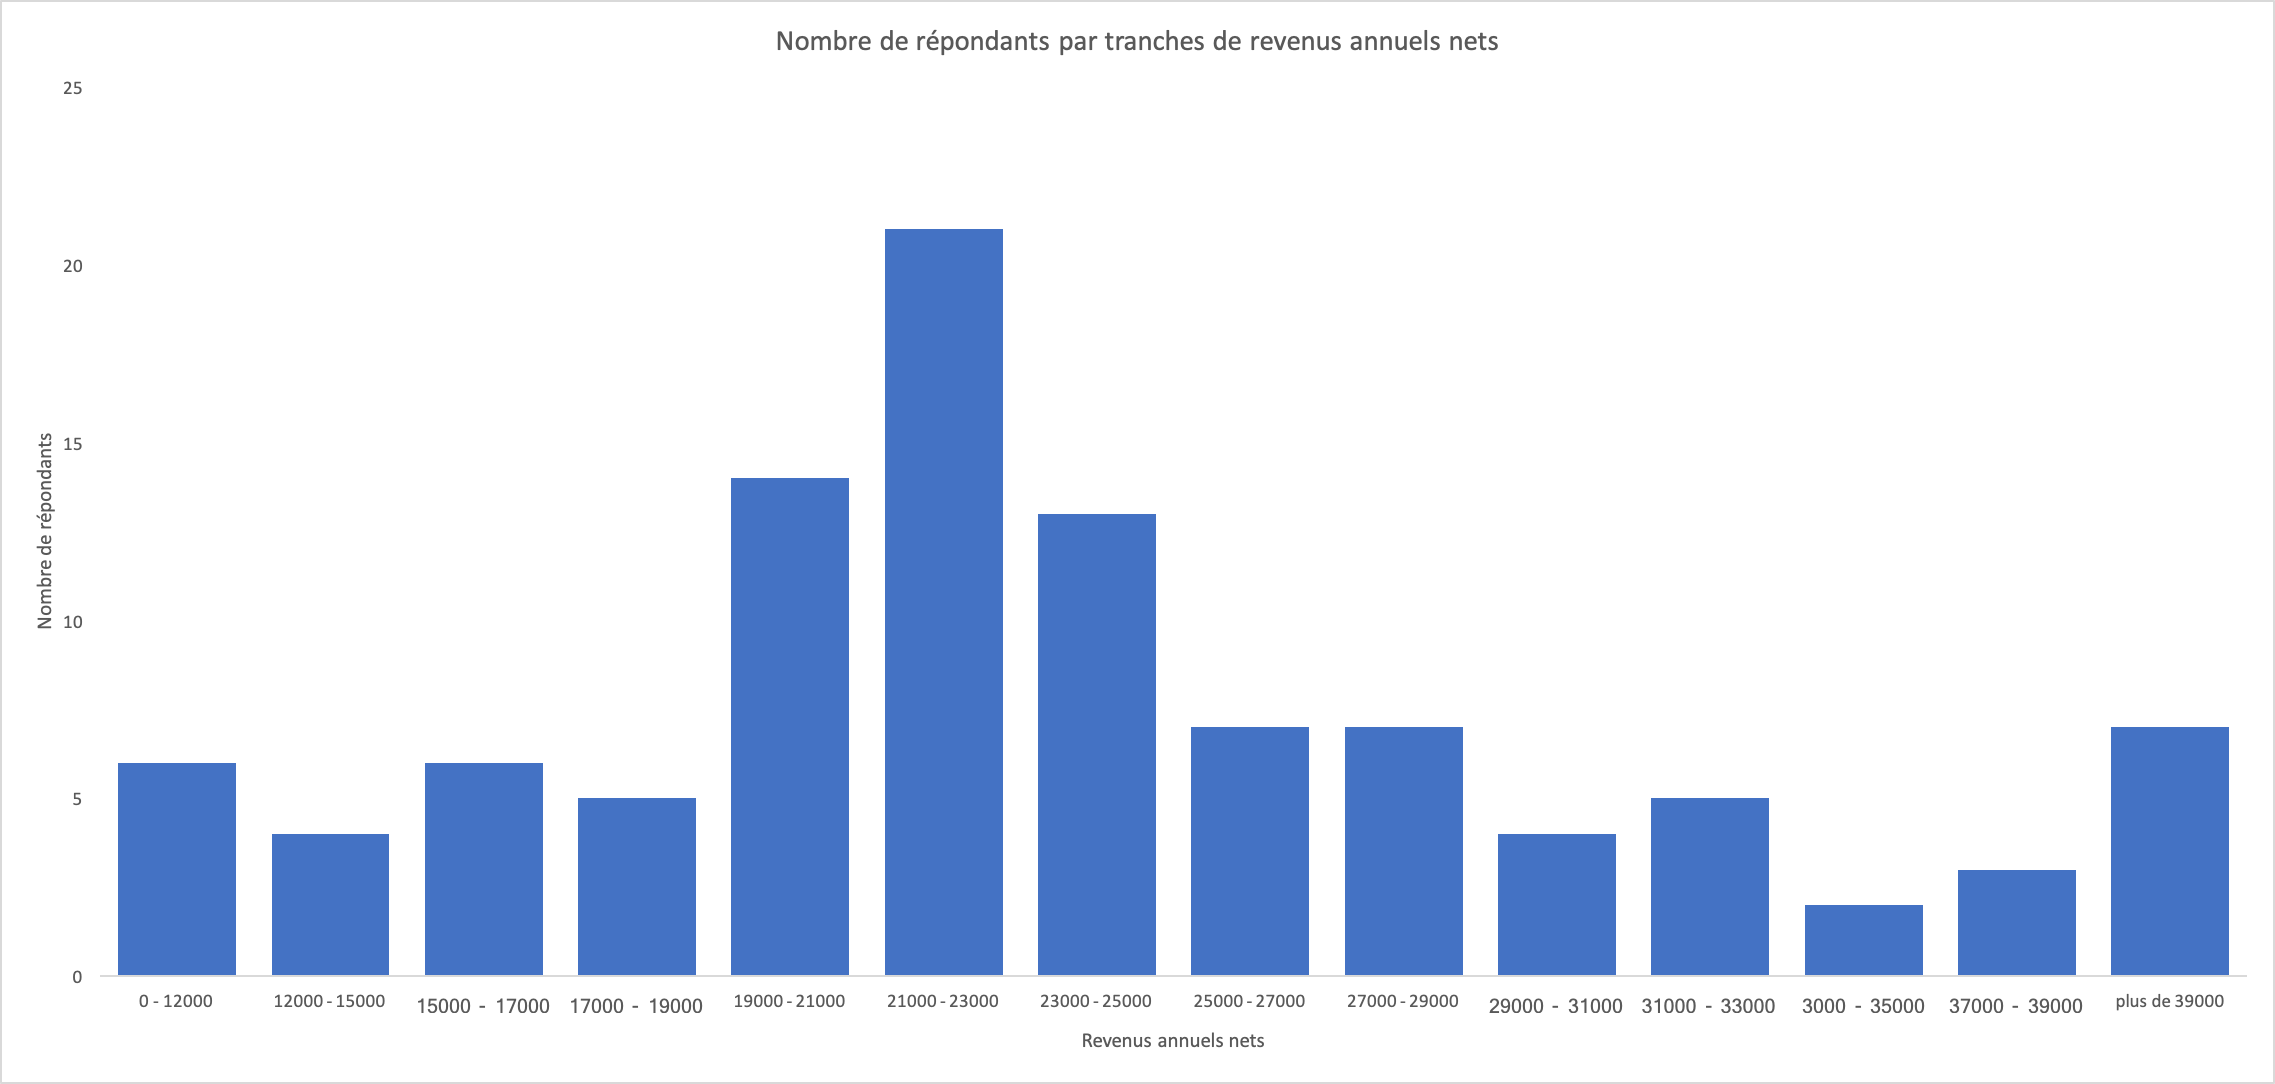
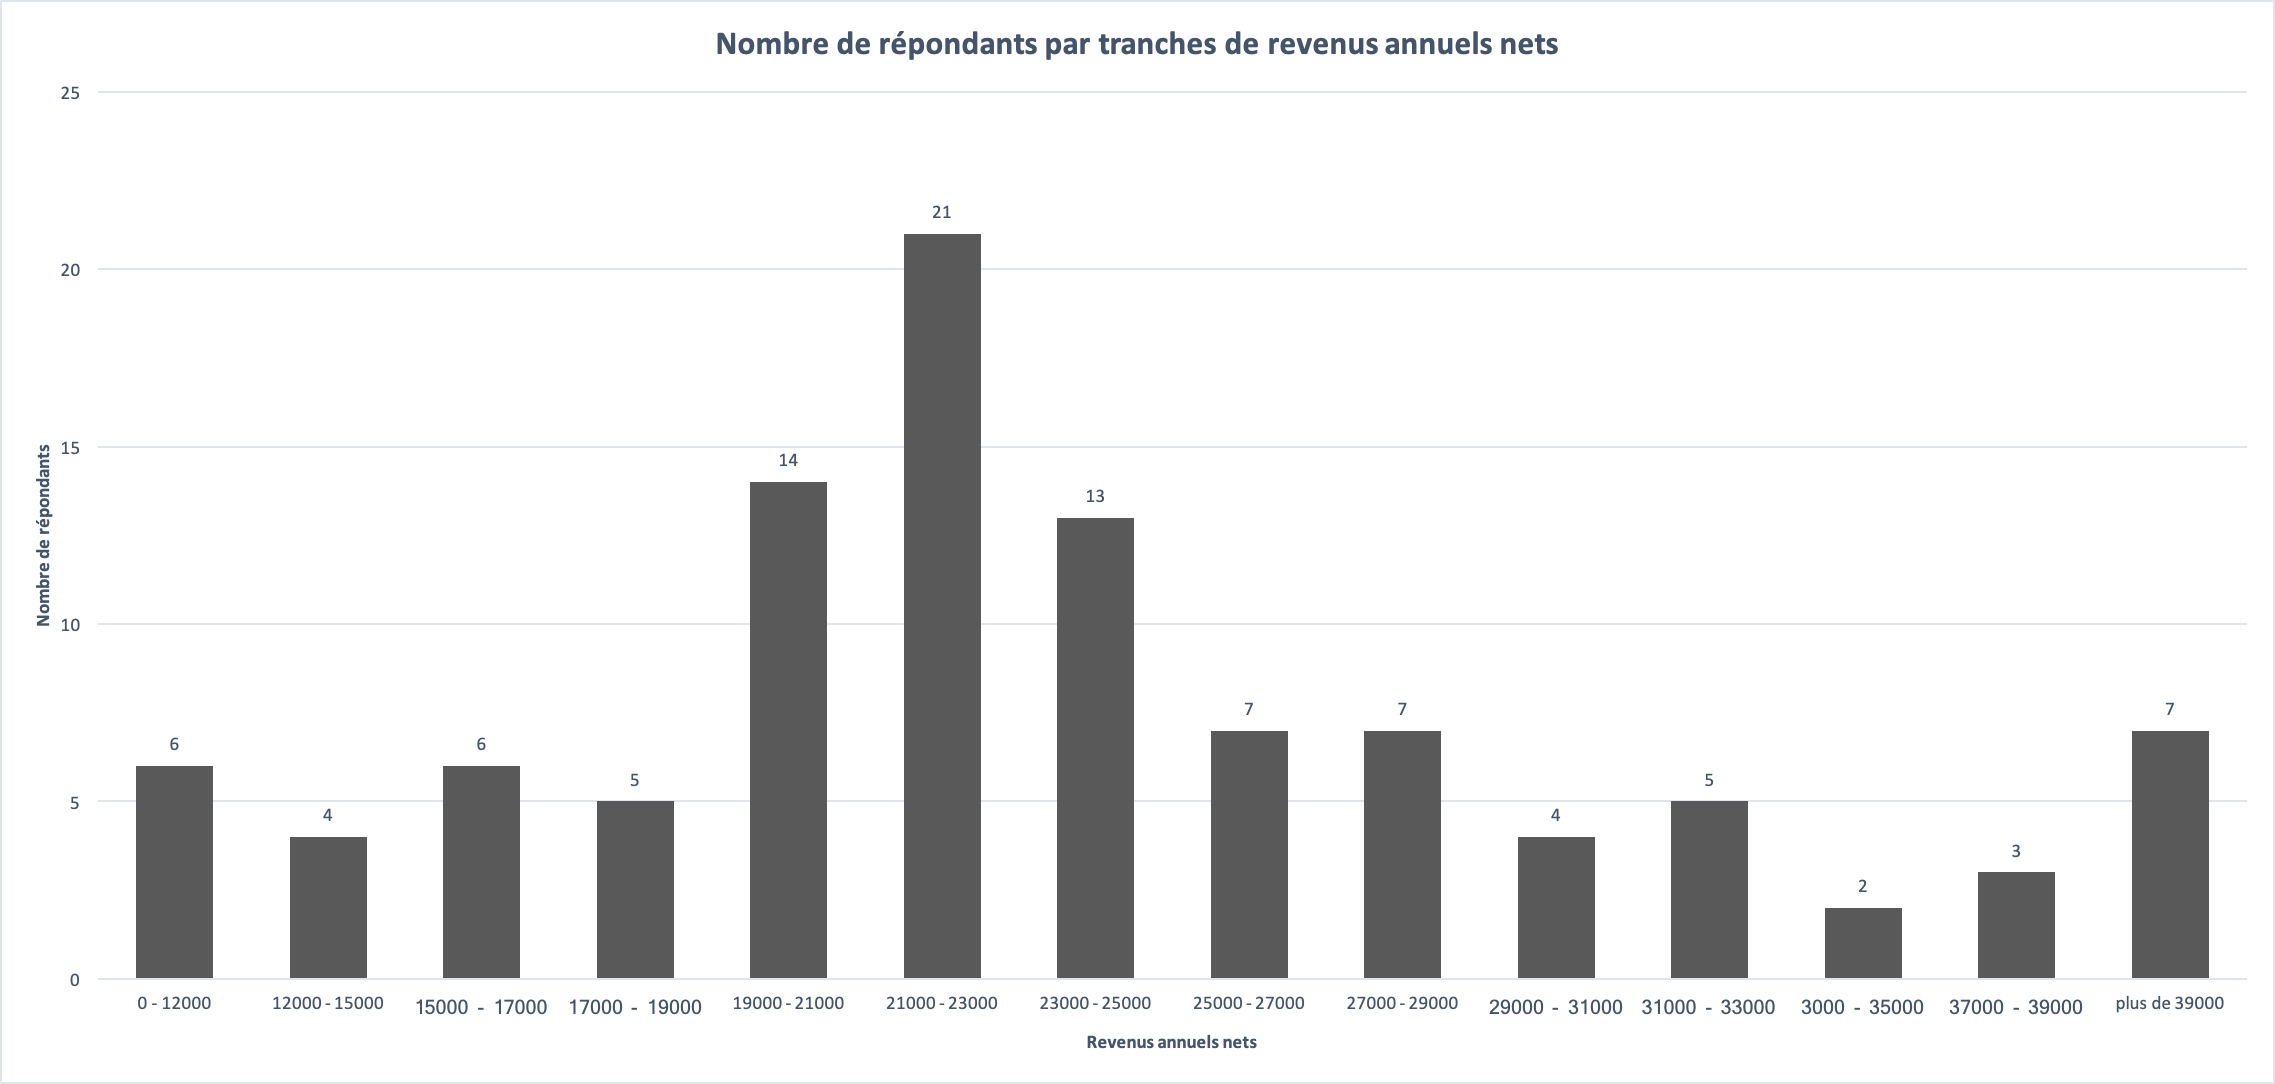
improve charts

Changed region(s): [[0.0312, 0.1827, 0.9987, 0.9742], [0.3121, 0.0304, 0.6866, 0.0609], [0.0, 0.3958, 0.0312, 0.5784]]

diff --git a/_posts/2019-12-03-etude-salariale-2019.md b/_posts/2019-12-03-etude-salariale-2019.md
@@ -21,34 +21,7 @@ La parité est presque respectée avec *50 femmes et 54 hommes*.
 
 ![Histogramme des salaires bruts](/etude-salariale-paysagiste-concepteur/assets/images/2019/rem_hist.png)
 
-### Statuts salariales
-#### Statut par type de structure
-
-| Dans quel type de structure êtes-vous ? | Quel est votre statut ?               | Répondants |
-|-----------------------------------------|---------------------------------------|------------|
-| Agence de conception                    | C.D.D                                 | 13         |
-| Agence de conception                    | C.D.I                                 | 23         |
-| Agence de conception                    | Dirigeant de SARL                     | 3          |
-| Bureau d'études                         | Auto-entrepreneur                     | 1          |
-| Bureau d'études                         | C.D.D                                 | 6          |
-| Bureau d'études                         | C.D.I                                 | 19         |
-| Entreprise de réalisation               | Auto-entrepreneur                     | 1          |
-| Entreprise de réalisation               | C.D.D                                 | 1          |
-| Entreprise de réalisation               | C.D.I                                 | 10         |
-| Entreprise de réalisation               | Dirigeant de SARL                     | 2          |
-| Freelance / Indépendant                 | Auto-entrepreneur                     | 4          |
-| Freelance / Indépendant                 | Dirigeant d'entreprise salarié        | 1          |
-| Freelance / Indépendant                 | Dirigeant de SARL                     | 2          |
-| Fonction publique                       | C.D.D                                 | 3          |
-| Fonction publique                       | Contractuel dans la fonction publique | 1          |
-| Fonction publique                       | Fonctionnaire                         | 3          |
-| Autre                                   | C.D.I                                 | 4          |
-| Groupe                                  | C.D.I                                 | 3          |
-| Association                             | C.D.D                                 | 2          |
-| Agence d'Urbanisme du réseau F.N.A.U    | C.D.D                                 | 1          |
-| C.A.U.E                                 | C.D.I                                 | 1          |
-
-#### Statut en fonction du sexe
+### Statut en fonction du sexe
 On peut remarquer une précarité accrue chez les femmes, avec *40%* de statut précaires (CDD et Auto-entrepreneur), contre *22%* chez les hommes.
 
 | Quel est votre sexe ? | Quel est votre statut ?               | Répondants |
